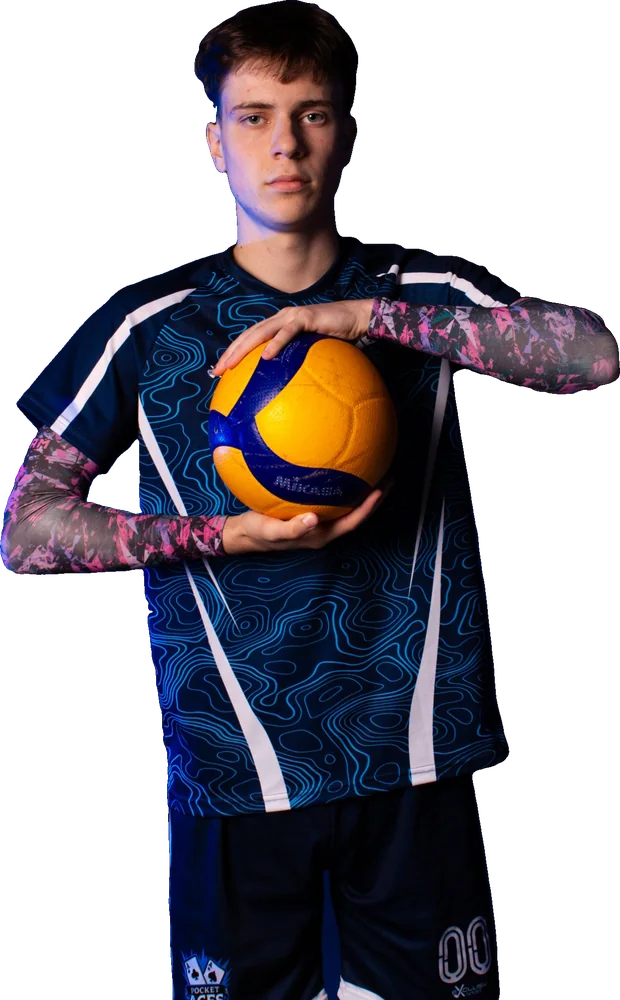
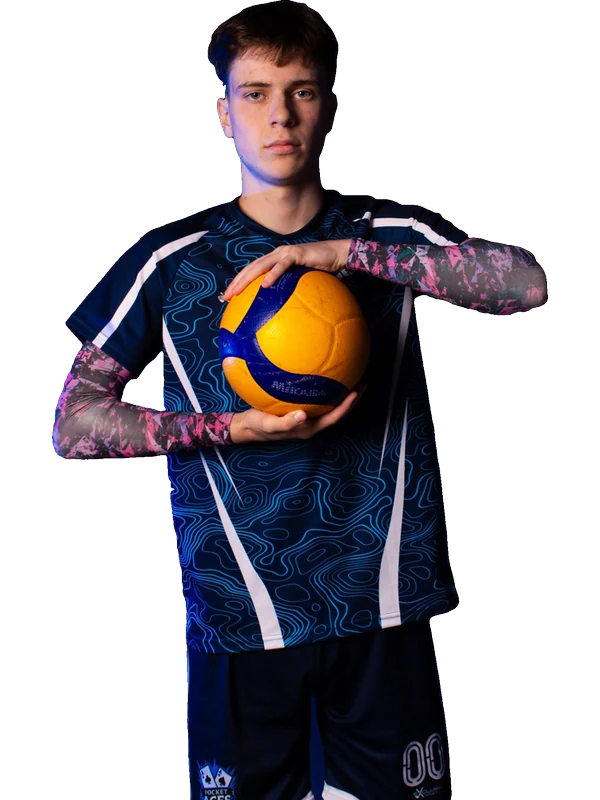
feat(web): player webp photos, season stats and featured hand

Changed region(s): [[0.0, 0.0, 1.0, 1.0], [0.51, 0.875, 0.63, 1.0]]

diff --git a/apps/web/src/data/players.ts b/apps/web/src/data/players.ts
@@ -1,6 +1,12 @@
-import type { PlayingCardProps } from "@/components/PlayingCard";
+export interface Player {
+  number: string;
+  name: string;
+  position: string;
+  image: string;
+  suit: "club" | "spade";
+}
 
-export const players: PlayingCardProps[] = [
+export const players: Player[] = [
   {
     number: "11",
     name: "Yasenovskyi",
@@ -12,7 +18,7 @@ export const players: PlayingCardProps[] = [
     number: "10",
     name: "Kornienko",
     position: "Atakujący",
-    image: "/images/player_010.png",
+    image: "/images/player-10.webp",
     suit: "spade",
   },
   {
@@ -26,14 +32,14 @@ export const players: PlayingCardProps[] = [
     number: "23",
     name: "Marynenko",
     position: "Środkowy",
-    image: "/images/player_23.png",
+    image: "/images/player-23.webp",
     suit: "spade",
   },
   {
     number: "13",
     name: "Mykytyn",
     position: "Przyjmujący",
-    image: "/images/player_13.png",
+    image: "/images/player-13.webp",
     suit: "club",
   },
   {

diff --git a/apps/web/src/data/stats.ts b/apps/web/src/data/stats.ts
@@ -1,0 +1,13 @@
+export interface SeasonStats {
+  points: number;
+  aces: number;
+  blocks: number;
+  matches: number;
+  serve: number;
+}
+
+export const sampleStats: Record<string, SeasonStats> = {
+  "11": { points: 186, aces: 21, blocks: 14, matches: 18, serve: 87 },
+  "23": { points: 142, aces: 9, blocks: 38, matches: 17, serve: 81 },
+  "15": { points: 64, aces: 17, blocks: 11, matches: 18, serve: 92 },
+};

diff --git a/apps/web/src/data/featured.ts b/apps/web/src/data/featured.ts
@@ -1,0 +1,11 @@
+import { players, type Player } from "@/data/players";
+
+function byNumber(number: string): Player {
+  const player = players.find((p) => p.number === number);
+  if (!player) {
+    throw new Error(`Нет игрока с номером ${number} в players.ts`);
+  }
+  return player;
+}
+
+export const hand = [byNumber("11"), byNumber("23"), byNumber("15")];
